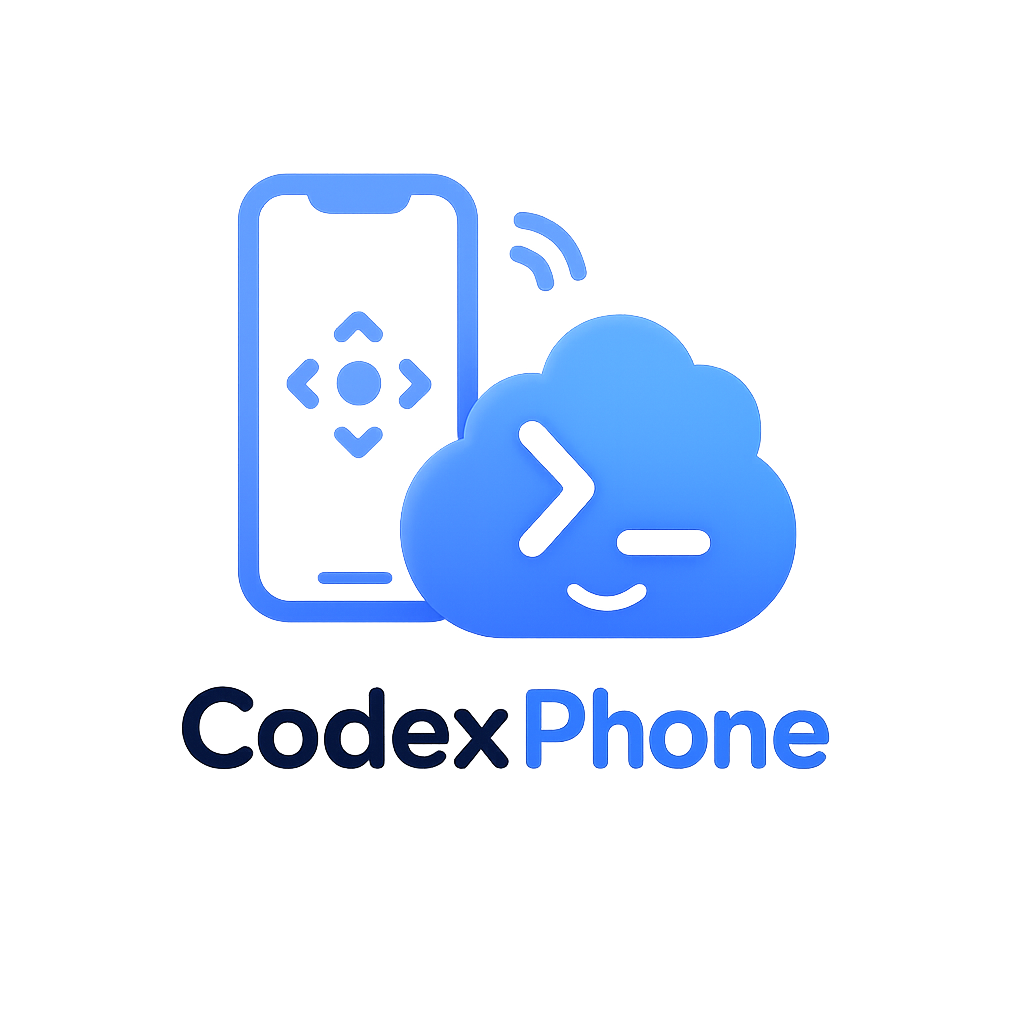
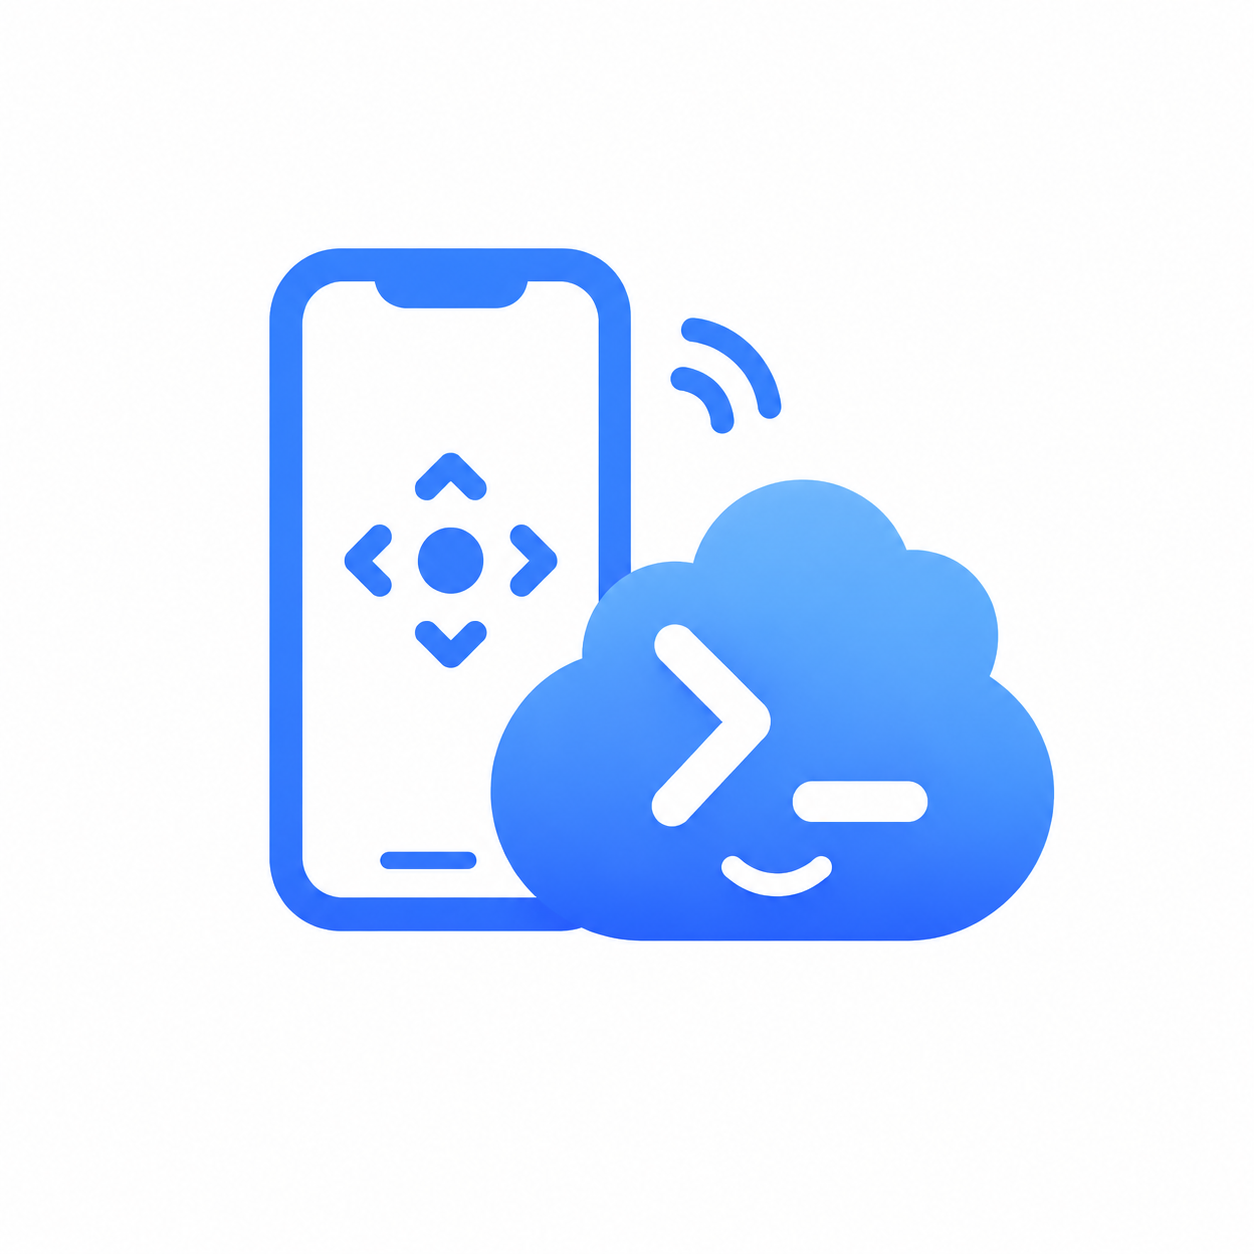
Open admin page when Codex Phone is already running

Changed region(s): [[0.1562, 0.1562, 0.8438, 0.75]]

diff --git a/app/launcher.py b/app/launcher.py
@@ -1,9 +1,12 @@
 from __future__ import annotations
 
+import json
 import os
 import threading
 import time
 import traceback
+from urllib.error import URLError
+from urllib.request import urlopen
 import webbrowser
 
 import uvicorn
@@ -14,14 +17,31 @@ from app.logging_setup import configure_logging
 
 def _open_admin_page(host: str, port: int) -> None:
     time.sleep(1.2)
+    _open_admin_url(host, port)
+
+
+def _open_admin_url(host: str, port: int) -> None:
     browser_host = "127.0.0.1" if host in {"0.0.0.0", "::"} else host
     webbrowser.open(f"http://{browser_host}:{port}/admin")
+
+
+def _existing_service_is_codex_phone(port: int) -> bool:
+    try:
+        with urlopen(f"http://127.0.0.1:{port}/admin/bootstrap", timeout=1.5) as response:
+            data = json.loads(response.read().decode("utf-8"))
+        return data.get("ok") is True and data.get("service") == "codex-phone"
+    except (OSError, URLError, ValueError, json.JSONDecodeError):
+        return False
 
 
 def main() -> None:
     settings = load_settings()
     configure_logging(settings.log_file)
     from app.main import app as fastapi_app
+
+    if _existing_service_is_codex_phone(settings.port):
+        _open_admin_url(settings.host, settings.port)
+        return
 
     if os.getenv("CODEX_PHONE_NO_BROWSER", "").strip() not in {"1", "true", "yes"}:
         threading.Thread(target=_open_admin_page, args=(settings.host, settings.port), daemon=True).start()